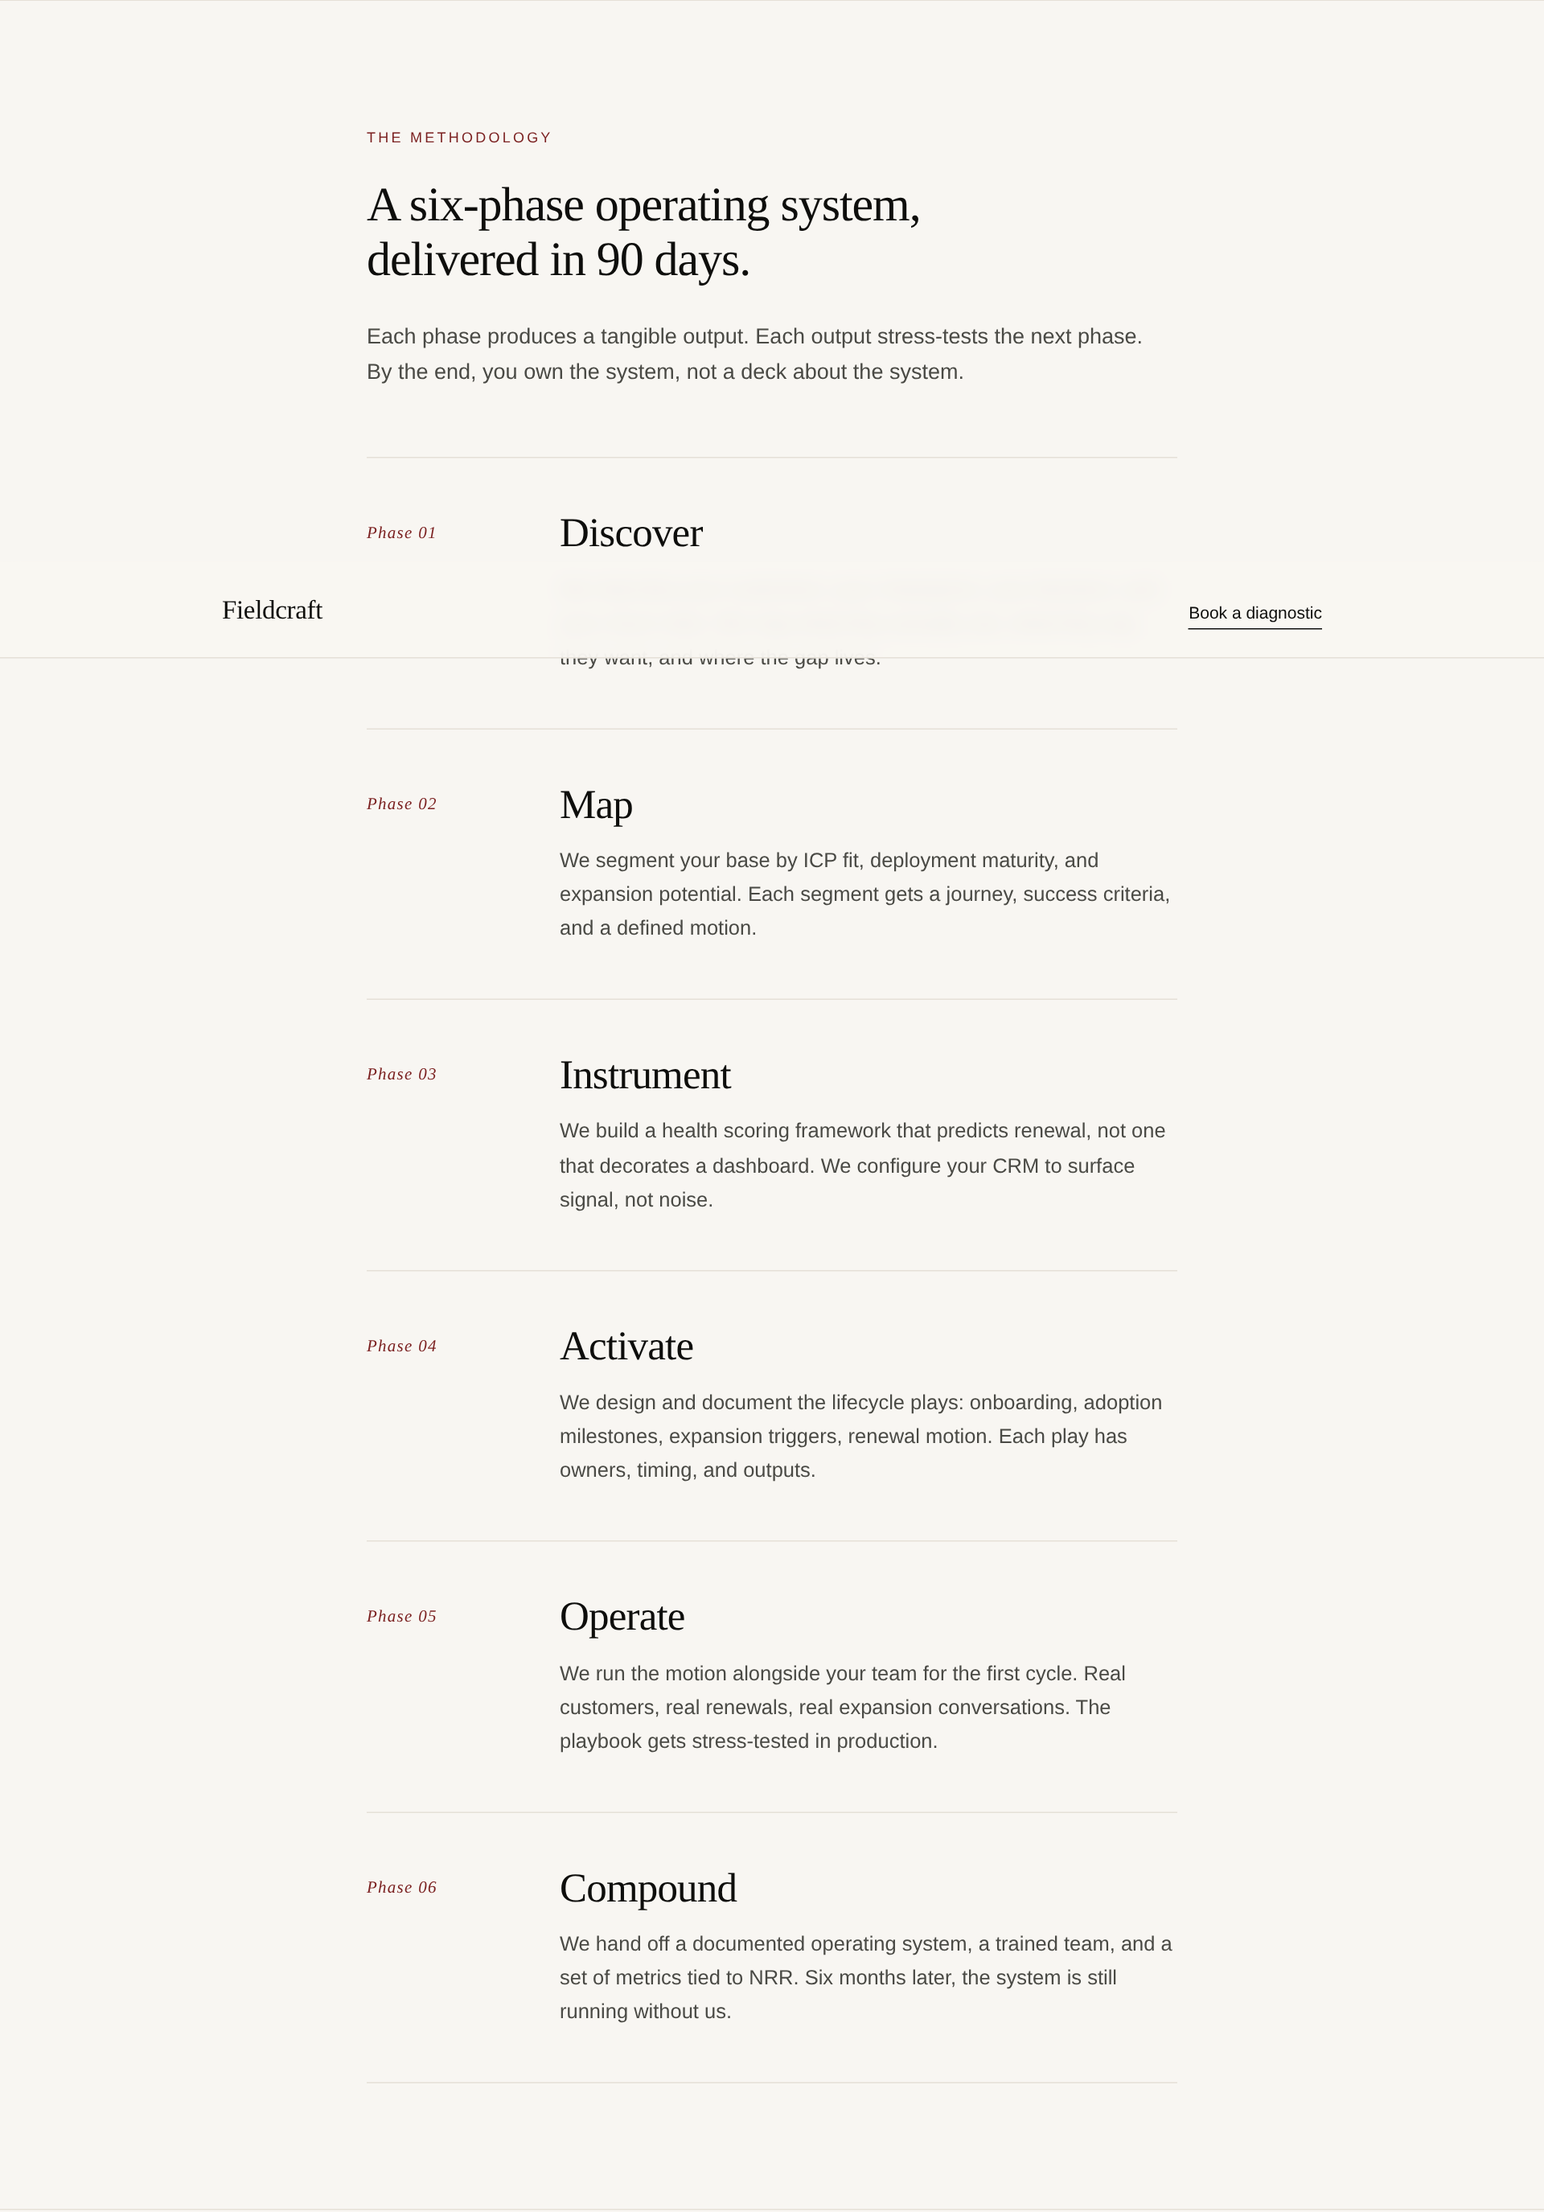
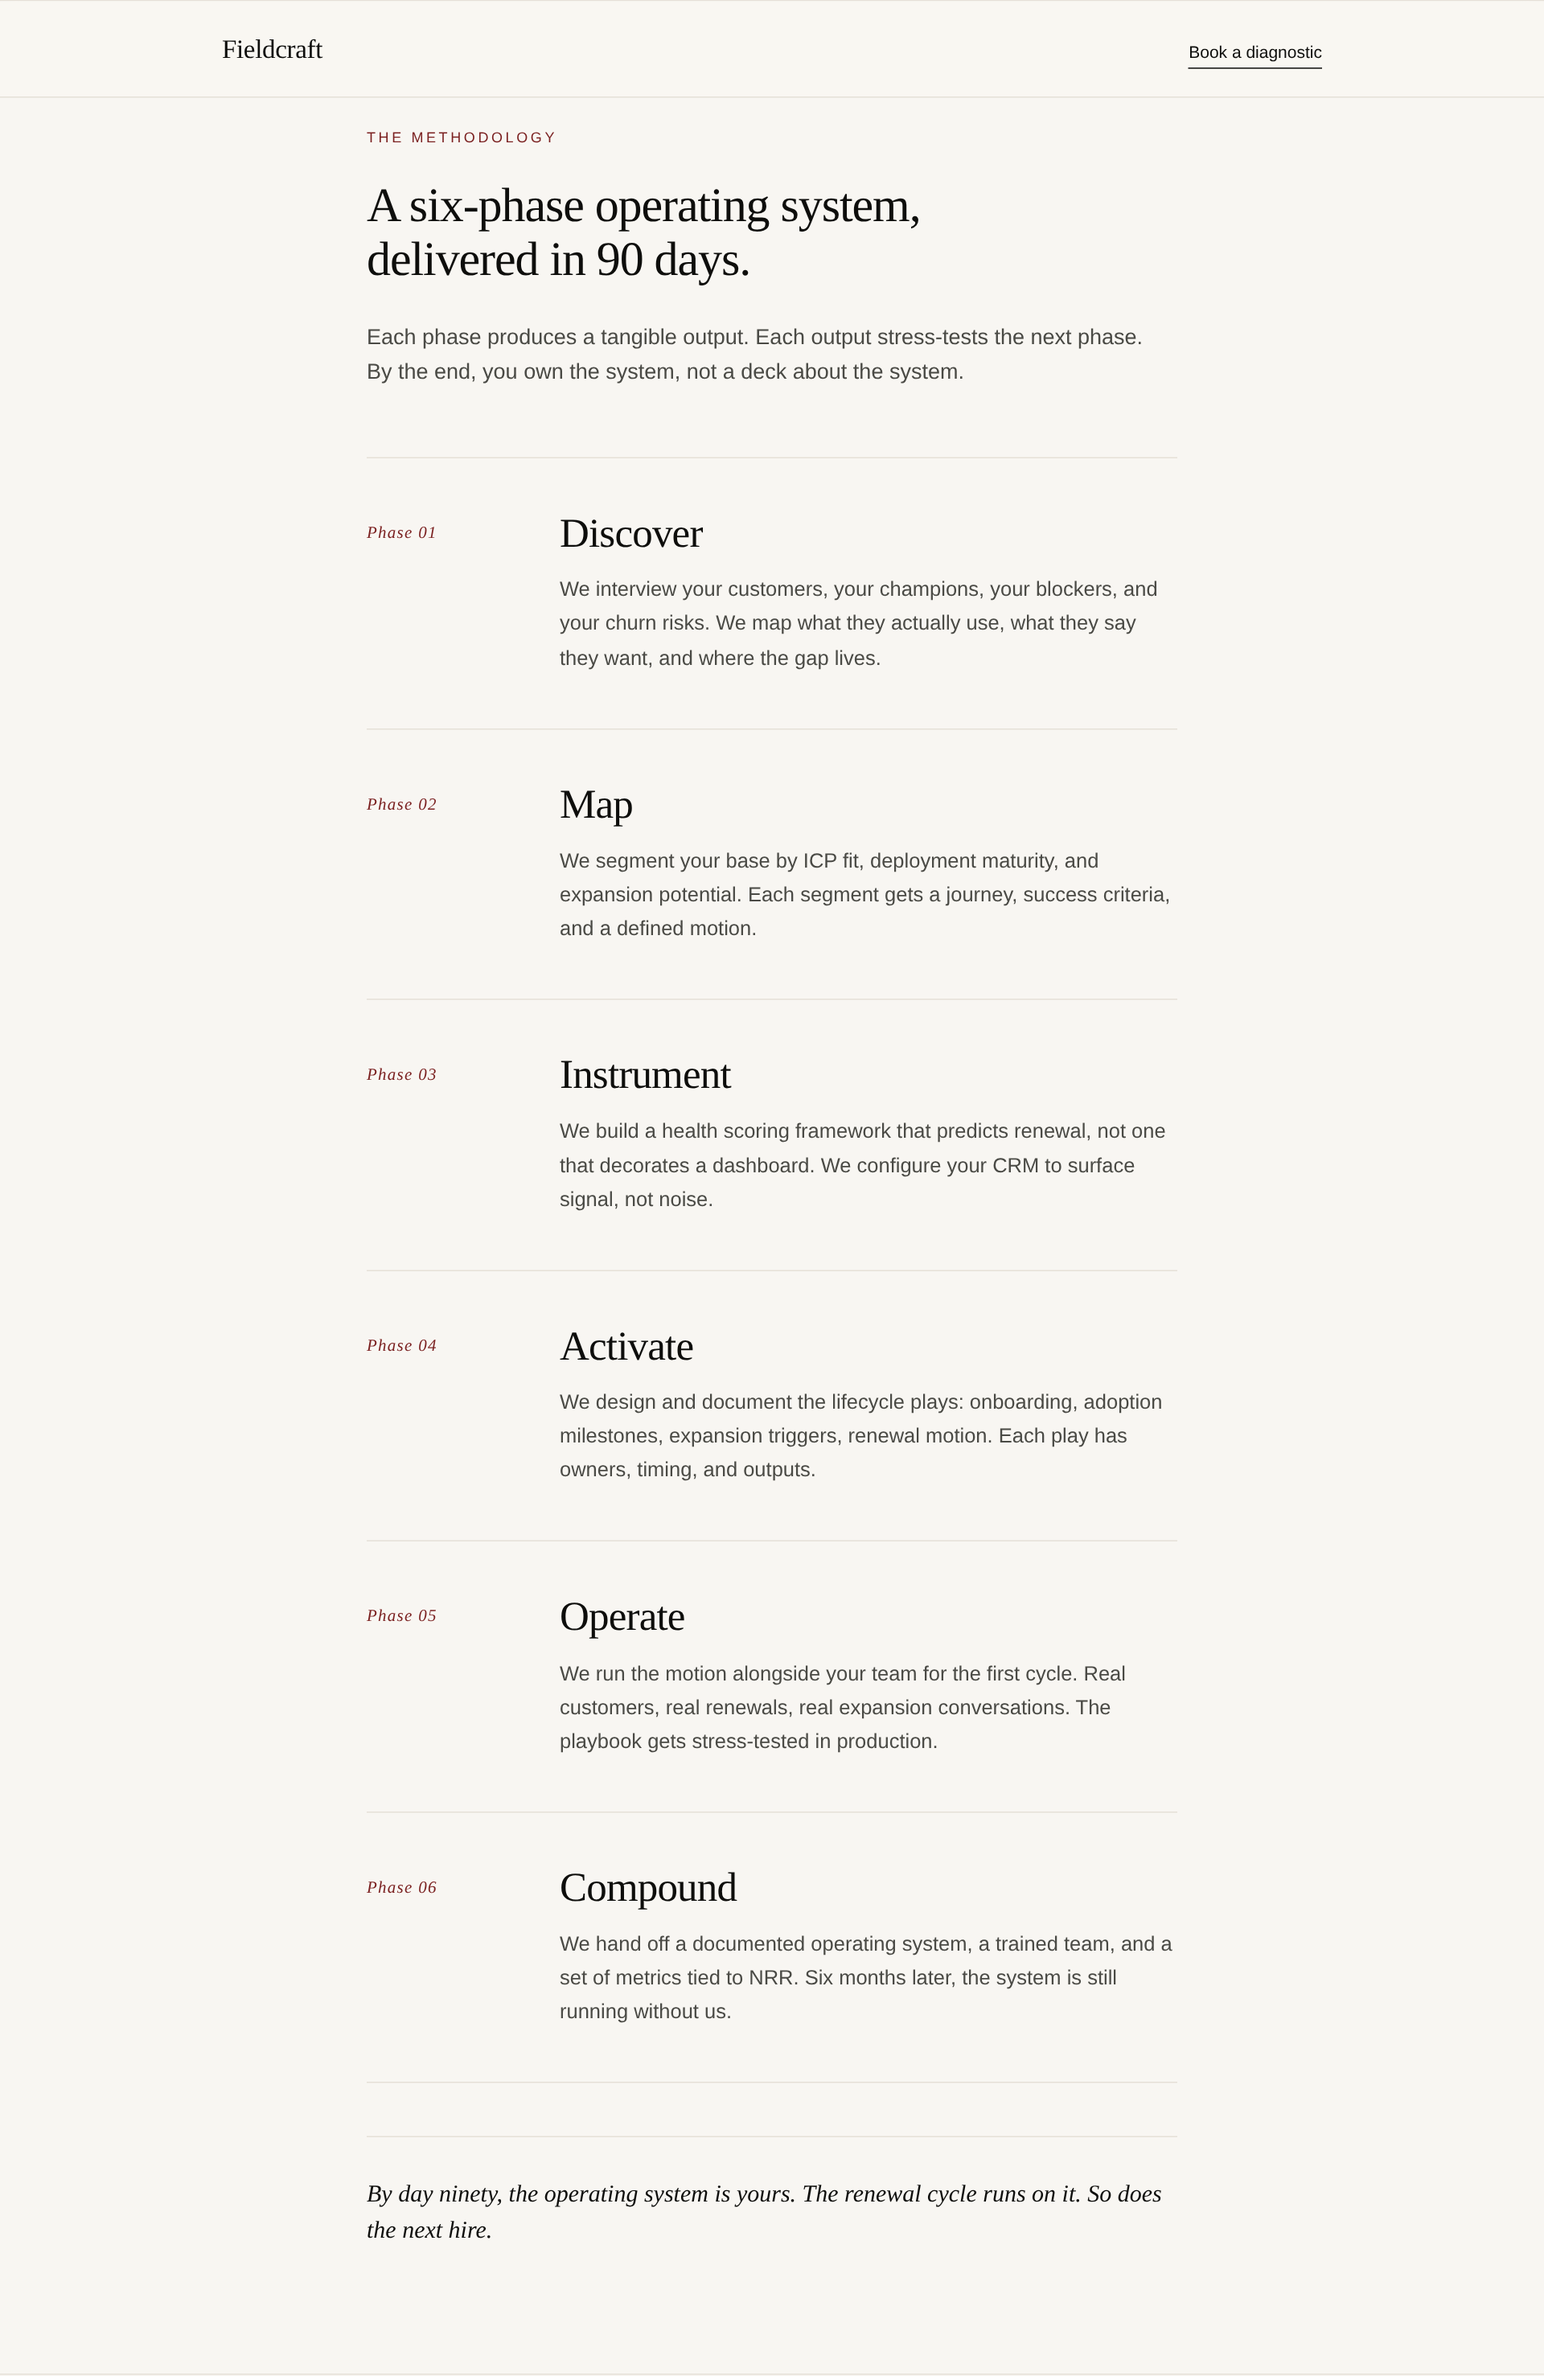
Optimize for mobile and tighten narrative arc
Mobile:
- Stack phase grid below 720px (was eating 88px gutter on 390px viewports)
- Compress section padding 88->64px on mobile, hero 96->64px top
- Shrink topbar 22->16px and brand 22->20px on mobile to save vertical real estate
- Hero CTA full-width up to 360px on mobile for thumb reach
- Larger h1 floor (38px) so the headline lands harder
- Min 48px tap targets on buttons and form inputs
- Tier card padding tightened on mobile

Narrative flow:
- Add transition close to qualifier section: "If that is where you are,
  the next ninety days look different." Bridges into methodology.
- Add destination beat after Phase 06: "By day ninety, the operating
  system is yours. The renewal cycle runs on it. So does the next hire."
  Closes the methodology arc with the after-state.

Refresh screenshots (desktop and mobile) to match new layout.

diff --git a/index.html b/index.html
@@ -64,7 +64,7 @@
       width: 100%;
       max-width: var(--measure);
       margin: 0 auto;
-      padding: 0 24px;
+      padding: 0 20px;
     }
 
     .container--wide { max-width: var(--measure-wide); }
@@ -72,7 +72,7 @@
     /* Top bar */
     .topbar {
       border-bottom: 1px solid var(--bg-rule);
-      padding: 22px 0;
+      padding: 16px 0;
       position: sticky;
       top: 0;
       background: rgba(248, 246, 242, 0.92);
@@ -83,68 +83,69 @@
     .topbar__inner {
       max-width: var(--measure-wide);
       margin: 0 auto;
-      padding: 0 24px;
+      padding: 0 20px;
       display: flex;
       align-items: baseline;
       justify-content: space-between;
-      gap: 24px;
+      gap: 16px;
     }
     .brand {
       font-family: var(--serif);
-      font-size: 22px;
+      font-size: 20px;
       font-weight: 500;
       color: var(--ink);
       letter-spacing: -0.01em;
     }
     .topbar__cta {
       font-family: var(--sans);
-      font-size: 14px;
+      font-size: 13px;
       font-weight: 500;
       color: var(--ink);
       border-bottom: 1px solid var(--ink);
       padding-bottom: 2px;
+      white-space: nowrap;
     }
     .topbar__cta:hover { color: var(--accent); border-bottom-color: var(--accent); }
 
     /* Hero */
     .hero {
-      padding: 96px 0 88px;
+      padding: 64px 0 56px;
       border-bottom: 1px solid var(--bg-rule);
     }
     .hero__eyebrow {
       font-family: var(--sans);
-      font-size: 13px;
+      font-size: 12px;
       font-weight: 500;
-      letter-spacing: 0.14em;
+      letter-spacing: 0.16em;
       text-transform: uppercase;
       color: var(--accent);
-      margin-bottom: 28px;
+      margin-bottom: 22px;
     }
     .hero h1 {
-      font-size: clamp(36px, 5.6vw, 60px);
+      font-size: clamp(38px, 6vw, 60px);
       line-height: 1.04;
       letter-spacing: -0.022em;
       font-weight: 400;
       max-width: 16ch;
-      margin-bottom: 28px;
+      margin-bottom: 24px;
     }
     .hero__sub {
       font-family: var(--sans);
-      font-size: 19px;
+      font-size: 18px;
       line-height: 1.55;
       color: var(--ink-muted);
       max-width: 36em;
-      margin: 0 0 36px;
+      margin: 0 0 28px;
     }
     .hero__credit {
       font-family: var(--serif);
       font-style: italic;
-      font-size: 18px;
+      font-size: 17px;
       line-height: 1.5;
       color: var(--accent);
       max-width: 36em;
-      margin: 0 0 44px;
-      padding-left: 16px;
+      margin: 0 0 36px;
+      padding-left: 14px;
       border-left: 1px solid var(--accent);
     }
 
@@ -155,55 +156,60 @@
       font-size: 15px;
       font-weight: 500;
       letter-spacing: 0.01em;
-      padding: 16px 26px;
+      padding: 16px 24px;
       background: var(--ink);
       color: var(--bg);
       border: 1px solid var(--ink);
       border-radius: 2px;
       cursor: pointer;
+      text-align: center;
+      min-height: 48px;
       transition: background 160ms ease, color 160ms ease, border-color 160ms ease;
     }
     .btn:hover { background: var(--accent); border-color: var(--accent); color: var(--bg); }
     .btn--ghost { background: transparent; color: var(--ink); }
     .btn--ghost:hover { background: var(--ink); color: var(--bg); }
+    .btn--block { display: block; width: 100%; }
+    .btn--hero { display: block; width: 100%; max-width: 360px; }
+    @media (min-width: 720px) { .btn--hero { display: inline-block; width: auto; } }
 
     /* Section base */
-    section { padding: 88px 0; border-bottom: 1px solid var(--bg-rule); }
+    section { padding: 64px 0; border-bottom: 1px solid var(--bg-rule); }
     section:last-of-type { border-bottom: none; }
 
     .section__label {
       font-family: var(--sans);
-      font-size: 12px;
+      font-size: 11px;
       font-weight: 500;
-      letter-spacing: 0.18em;
+      letter-spacing: 0.2em;
       text-transform: uppercase;
       color: var(--accent);
-      margin-bottom: 24px;
+      margin-bottom: 20px;
     }
     .section__title {
-      font-size: clamp(28px, 3.6vw, 40px);
+      font-size: clamp(28px, 4.4vw, 40px);
       line-height: 1.12;
       letter-spacing: -0.018em;
-      margin-bottom: 28px;
+      margin-bottom: 24px;
       max-width: 22ch;
     }
 
     /* Pattern (What we see) */
     .pattern p {
-      font-size: 18px;
-      line-height: 1.65;
+      font-size: 17px;
+      line-height: 1.6;
       color: var(--ink);
-      margin-bottom: 20px;
+      margin-bottom: 18px;
     }
     .pattern__close {
       font-family: var(--serif);
       font-style: italic;
-      font-size: 22px;
+      font-size: clamp(20px, 2.6vw, 22px);
       line-height: 1.4;
       color: var(--ink);
       border-top: 1px solid var(--bg-rule);
-      padding-top: 28px;
-      margin-top: 36px;
+      padding-top: 24px;
+      margin-top: 28px;
     }
 
     /* Who this is for */
@@ -216,9 +222,9 @@
     .qual__list li {
       counter-increment: qual;
       position: relative;
-      padding: 24px 0 24px 56px;
+      padding: 22px 0 22px 44px;
       border-top: 1px solid var(--bg-rule);
-      font-size: 18px;
+      font-size: 17px;
       line-height: 1.55;
       color: var(--ink);
     }
@@ -227,12 +233,20 @@
       content: counter(qual, decimal-leading-zero);
       position: absolute;
       left: 0;
-      top: 26px;
+      top: 24px;
       font-family: var(--serif);
       font-style: italic;
-      font-size: 16px;
+      font-size: 15px;
       color: var(--accent);
       letter-spacing: 0.02em;
+    }
+    .qual__close {
+      font-family: var(--serif);
+      font-style: italic;
+      font-size: 18px;
+      line-height: 1.5;
+      color: var(--ink);
+      margin: 32px 0 0;
     }
 
     /* Methodology */
@@ -250,35 +264,43 @@
       gap: 0;
     }
     .phase {
-      display: grid;
-      grid-template-columns: 88px 1fr;
-      gap: 24px;
-      padding: 36px 0;
+      padding: 28px 0;
       border-top: 1px solid var(--bg-rule);
     }
     .phase:last-child { border-bottom: 1px solid var(--bg-rule); }
     .phase__num {
       font-family: var(--serif);
       font-style: italic;
-      font-size: 14px;
-      letter-spacing: 0.06em;
+      font-size: 13px;
+      letter-spacing: 0.08em;
       color: var(--accent);
-      padding-top: 8px;
+      margin-bottom: 10px;
+      display: block;
     }
     .phase__name {
       font-family: var(--serif);
-      font-size: clamp(26px, 3vw, 34px);
+      font-size: clamp(26px, 4vw, 34px);
       line-height: 1.1;
       letter-spacing: -0.016em;
       font-weight: 400;
-      margin: 0 0 14px;
+      margin: 0 0 12px;
     }
     .phase__body {
-      font-size: 17px;
-      line-height: 1.65;
+      font-size: 16.5px;
+      line-height: 1.6;
       color: var(--ink-muted);
       max-width: 38em;
       margin: 0;
+    }
+    .methodology__close {
+      font-family: var(--serif);
+      font-style: italic;
+      font-size: 18px;
+      line-height: 1.5;
+      color: var(--ink);
+      margin: 36px 0 0;
+      padding-top: 28px;
+      border-top: 1px solid var(--bg-rule);
     }
 
     /* Tiers */
@@ -298,7 +320,7 @@
     .tier {
       background: transparent;
       border: 1px solid var(--bg-rule);
-      padding: 36px 32px 32px;
+      padding: 28px 24px 28px;
       display: flex;
       flex-direction: column;
     }
@@ -447,15 +469,16 @@
       margin-bottom: 16px;
     }
     .book__input {
-      flex: 1 1 240px;
+      flex: 1 1 100%;
       background: transparent;
       border: 1px solid rgba(248, 246, 242, 0.35);
       color: var(--bg);
       font-family: var(--sans);
-      font-size: 15px;
+      font-size: 16px;
       padding: 14px 16px;
       border-radius: 2px;
       outline: none;
+      min-height: 48px;
       transition: border-color 160ms ease;
     }
     .book__input::placeholder { color: rgba(248, 246, 242, 0.45); }
@@ -476,7 +499,7 @@
     /* Diagnostic CTA */
     .diagnostic {
       text-align: left;
-      padding: 112px 0;
+      padding: 80px 0;
     }
     .diagnostic h2 {
       font-size: clamp(30px, 4.2vw, 46px);
@@ -554,11 +577,39 @@
 
     /* Responsive */
     @media (min-width: 720px) {
+      .container { padding: 0 24px; }
+      .topbar { padding: 22px 0; }
+      .topbar__inner { padding: 0 24px; }
+      .brand { font-size: 22px; }
+      .topbar__cta { font-size: 14px; }
       .hero { padding: 128px 0 112px; }
+      .hero__eyebrow { font-size: 13px; margin-bottom: 28px; }
+      .hero h1 { margin-bottom: 28px; }
+      .hero__sub { font-size: 19px; margin-bottom: 36px; }
+      .hero__credit { font-size: 18px; margin-bottom: 44px; padding-left: 16px; }
       section { padding: 104px 0; }
-      .phase { grid-template-columns: 120px 1fr; gap: 40px; padding: 44px 0; }
+      .section__label { font-size: 12px; margin-bottom: 24px; }
+      .section__title { margin-bottom: 28px; }
+      .pattern p { font-size: 18px; line-height: 1.65; margin-bottom: 20px; }
+      .pattern__close { padding-top: 28px; margin-top: 36px; }
+      .qual__list li { padding: 24px 0 24px 56px; font-size: 18px; }
+      .qual__list li::before { top: 26px; font-size: 16px; }
+      .phase {
+        display: grid;
+        grid-template-columns: 120px 1fr;
+        gap: 40px;
+        padding: 44px 0;
+      }
+      .phase__num { margin-bottom: 0; padding-top: 8px; font-size: 14px; letter-spacing: 0.06em; }
+      .phase__name { margin-bottom: 14px; }
+      .phase__body { font-size: 17px; line-height: 1.65; }
+      .methodology__close { font-size: 20px; margin-top: 44px; padding-top: 32px; }
+      .tier { padding: 36px 32px 32px; }
       .about__layout { grid-template-columns: 140px 1fr; gap: 48px; align-items: start; }
       .about__portrait { width: 140px; height: 140px; font-size: 44px; }
+      .book__form { flex-wrap: wrap; }
+      .book__input { flex: 1 1 240px; font-size: 15px; }
+      .diagnostic { padding: 112px 0; }
     }
 
     @media (min-width: 960px) {
@@ -585,7 +636,7 @@
         <h1 id="hero-title">Your clinical AI is built. Adoption is the next frontier.</h1>
         <p class="hero__sub">A customer success operating system for clinical AI and healthcare SaaS startups. From zero CS to a working operation in 90 days.</p>
         <p class="hero__credit">100% gross retention. 85% pilot-to-paid conversion. Across hundreds of acute care and SNF deployments.</p>
-        <a href="#diagnostic" class="btn">Book a 30-Minute CS Diagnostic</a>
+        <a href="#diagnostic" class="btn btn--hero">Book a 30-Minute CS Diagnostic</a>
       </div>
     </section>
 
@@ -609,6 +660,7 @@
           <li>Your pilots are praised in the demo and stalled in procurement. Design partners are not converting to paid contracts at the rate your model assumed.</li>
           <li>You are about to hire your first head of customer success and you do not yet have the playbook they will inherit.</li>
         </ol>
+        <p class="qual__close">If that is where you are, the next ninety days look different.</p>
       </div>
     </section>
 
@@ -667,6 +719,7 @@
             </div>
           </article>
         </div>
+        <p class="methodology__close">By day ninety, the operating system is yours. The renewal cycle runs on it. So does the next hire.</p>
       </div>
     </section>
 
